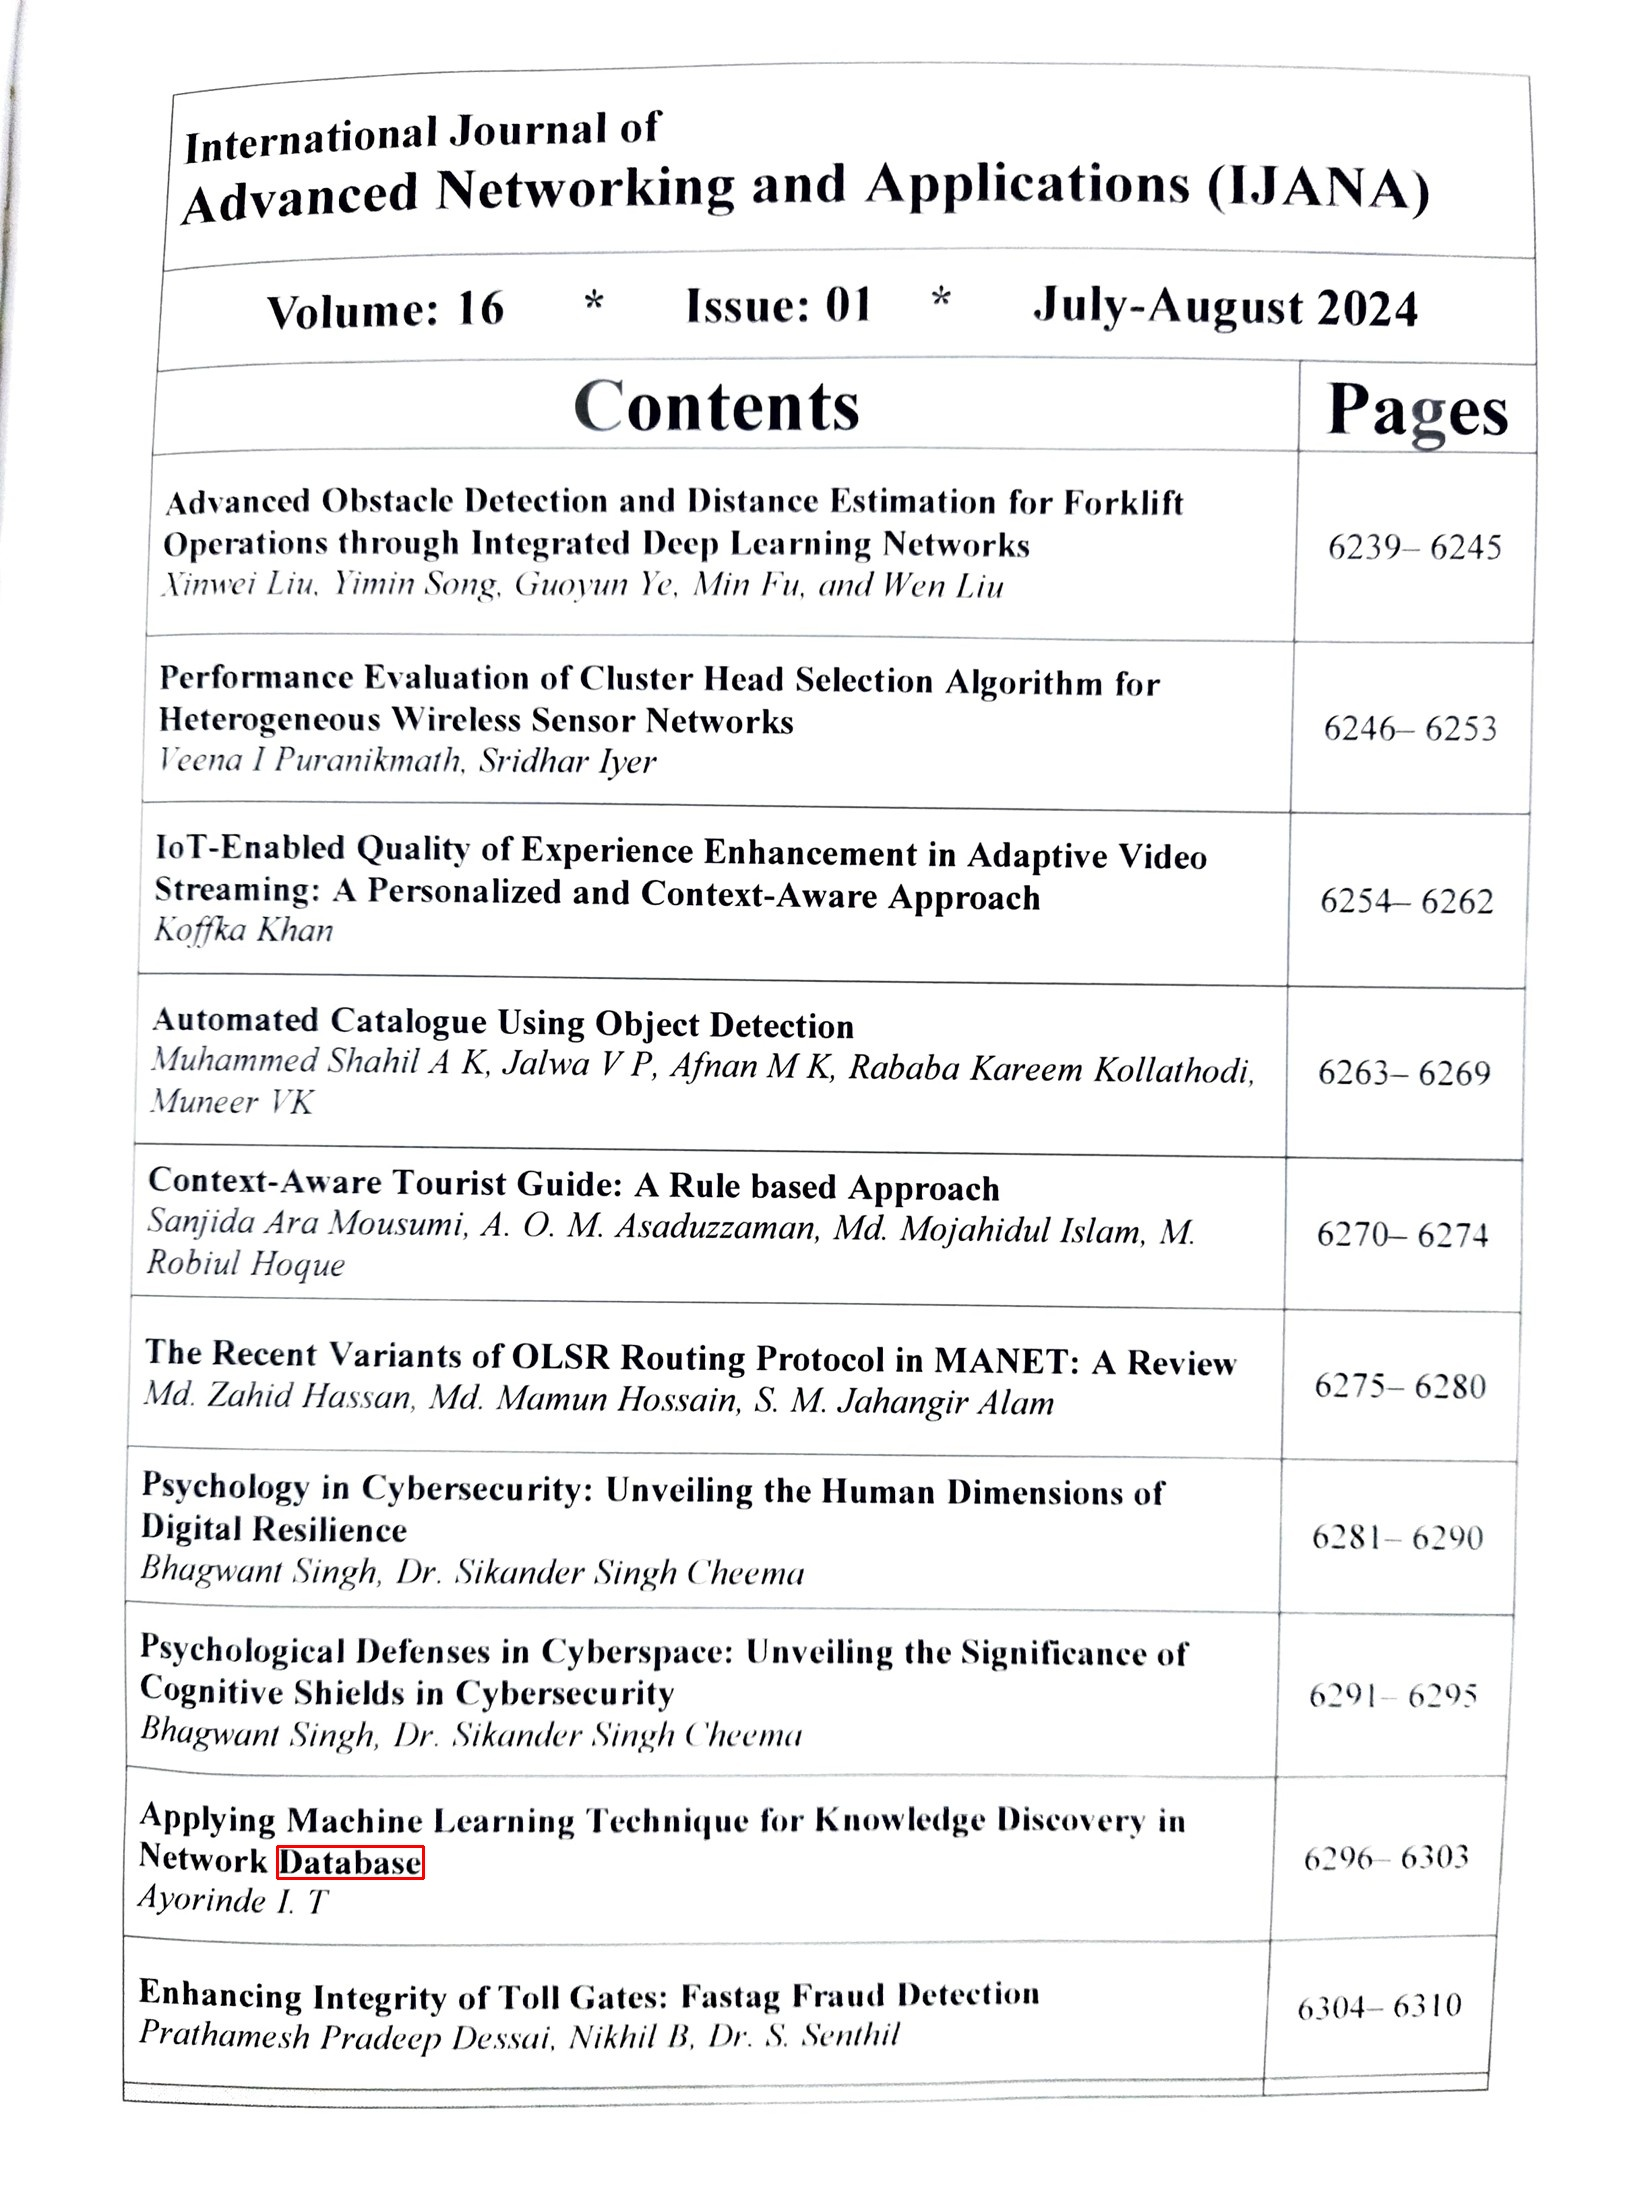
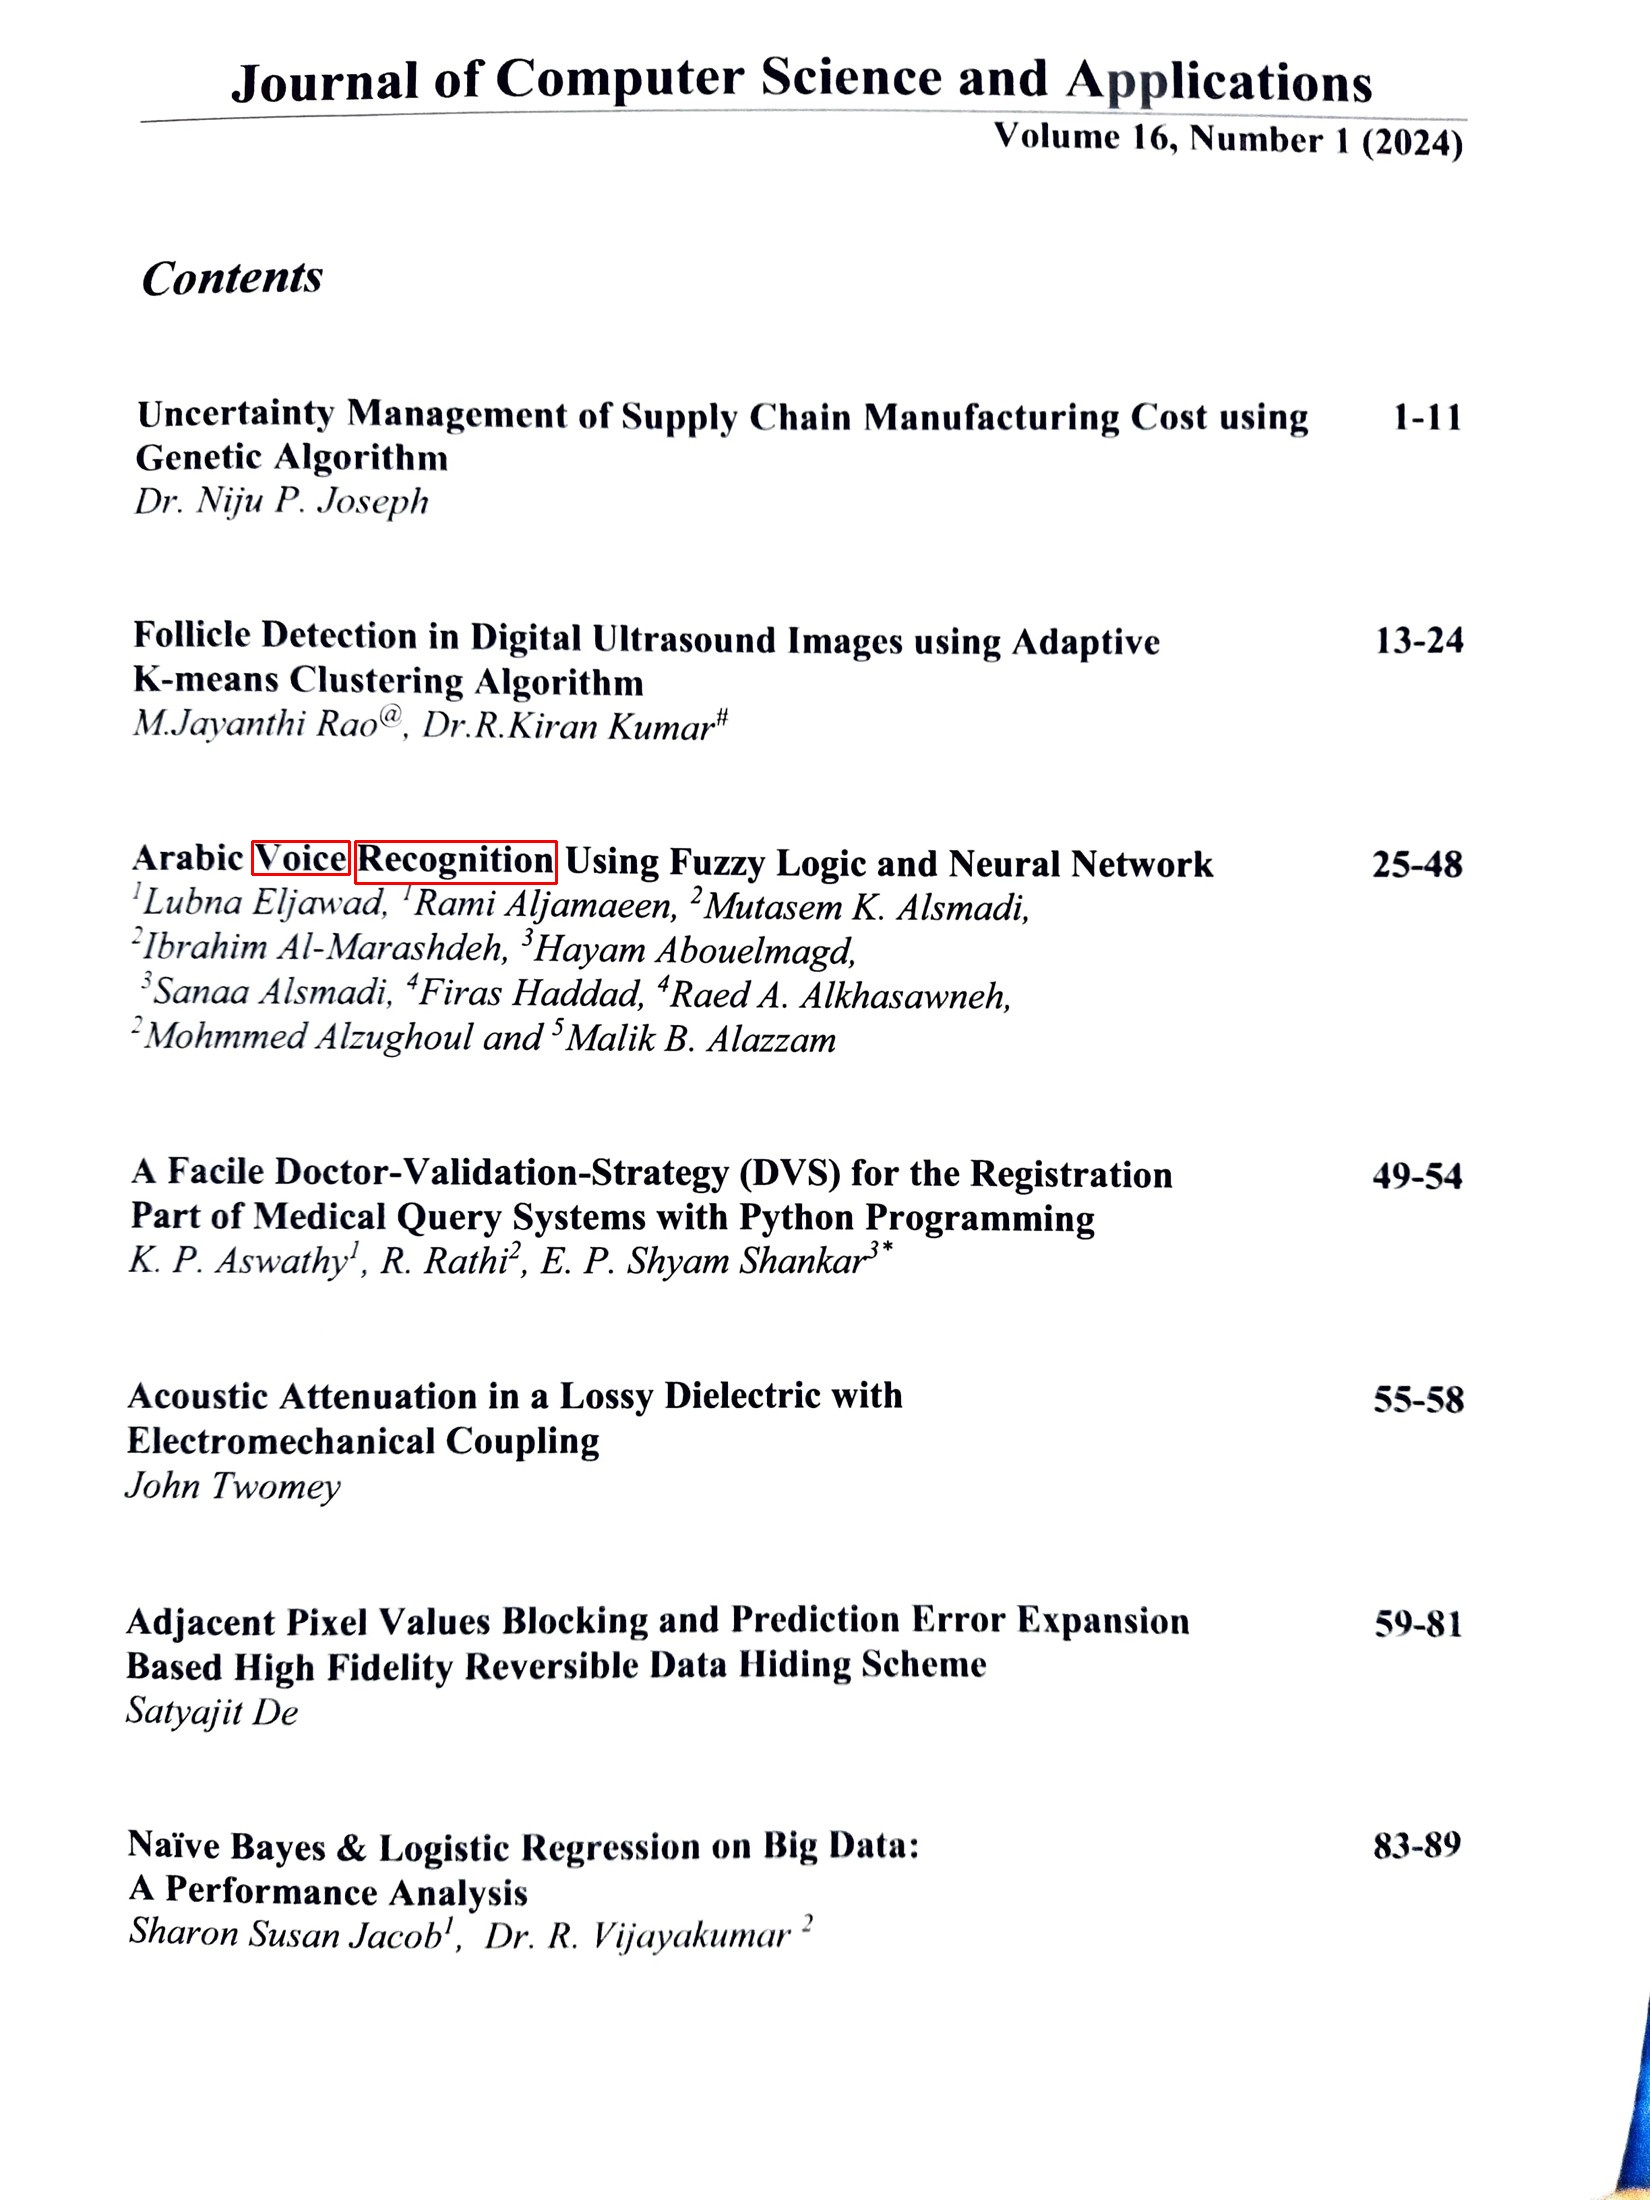
linkedin link added

diff --git a/myproject/myapp/templates/search.html b/myproject/myapp/templates/search.html
@@ -465,7 +465,7 @@
       }
 
       #clear-btn {
-        right: 0px;
+        right: 12px;
       }
 
       #clear-btn img {
@@ -627,7 +627,7 @@
       </form>
     </div>
     <div id="footer">
-      <p>Designed by 2022-25 batch B.Sc., CS., Cognitive Systems | Jagannathan M | Vijay S | Abdul Kasif R A || Mentored
+      <p>Designed by 2022-25 batch B.Sc., CS., Cognitive Systems |<a href="https://www.linkedin.com/in/" style="text-decoration: none; color: black; font-size: 600;"> Jagannathan M </a> | <a href="https://www.linkedin.com/in/vijaysankar2005" style="text-decoration: none; color: black; font-size: 600;">Vijay S </a> | Abdul Kasif R A || Mentored
         by Dr R. Moorthy <small>Librarian</small> and Dr. G. Rakesh <small>Head of Dept CS</small></p>
     </div>
   </div>

diff --git a/myproject/myapp/templates/image_detail.html b/myproject/myapp/templates/image_detail.html
@@ -36,9 +36,9 @@
 
         #container {
             background-image: url("{% static 'images/bg.jpg' %}");
-            background-repeat: no-repeat;
-            background-position: center;
-            background-size: cover;
+            background-repeat:repeat;
+            background-position: top;
+            background-size:cover;
             display: flex;
             flex-direction: column;
             justify-content: center;

diff --git a/myproject/myproject/settings.py b/myproject/myproject/settings.py
@@ -27,7 +27,7 @@ SECRET_KEY = 'django-insecure-%xjps2b-ov!2lzj!f)wr6!6du#=xij60*e3l=$-4k-iy+87)a@
 # SECURITY WARNING: don't run with debug turned on in production!
 DEBUG = True
 
-ALLOWED_HOSTS = ['192.168.178.126']
+ALLOWED_HOSTS = ['192.168.178.51']
 
 
 # Application definition
